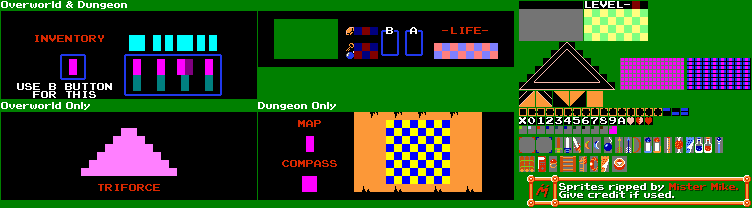
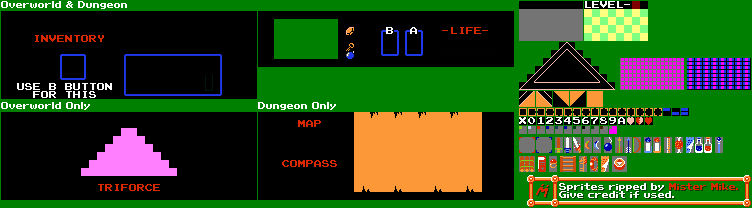
fireball explosion separatedd, hud colors

diff --git a/sprint0/sprint0/Bosses/Ganon/GanonFireball.cs b/sprint0/sprint0/Bosses/Ganon/GanonFireball.cs
@@ -12,84 +12,47 @@ namespace sprint0
         public Rectangle Location { get; set; }
         public Texture2D Texture { get; set; }
         private readonly int width = 8, height = 10;
-        private readonly Dictionary<string, List<Rectangle>> dirToSourcesMap;
-        private readonly Dictionary<string, SpriteEffects> dirToEffectsMap;
-        private readonly string type;
+        private readonly Dictionary<Direction, List<Rectangle>> dirToSourcesMap;
+        private readonly Dictionary<Direction, SpriteEffects> dirToEffectsMap;
         private int currFrame;
+        private readonly Direction dir;
         private readonly int totalFrames, repeatedFrames, speed = 3;
-        public Vector2 Direction { get; set; }
         private bool hit;
 
         public int Damage { get => 4; }
 
-        public GanonFireball(Texture2D texture, Vector2 location, string type, IEntity shooter)
+        public GanonFireball(Texture2D texture, Vector2 location, Direction dir, IEntity shooter)
         {
             Shooter = shooter;
             Texture = texture;
+            this.dir = dir;
             Location = new Rectangle((int)location.X, (int)location.Y, (int)(width * Game1.Scale), (int)(height * Game1.Scale));
-            this.type = type;
             currFrame = 0;
             totalFrames = 4;
             repeatedFrames = 2;
-            dirToSourcesMap = new Dictionary<string, List<Rectangle>>
+            dirToSourcesMap = new Dictionary<Direction, List<Rectangle>>
             {
-                { "up", SpritesheetHelper.GetFramesH(276, 157, width, height, totalFrames) },
-                { "up left", SpritesheetHelper.GetFramesH(276, 174, width, height, totalFrames) },
-                { "left", SpritesheetHelper.GetFramesH(276, 192, width, height, totalFrames) },
-                { "down left", SpritesheetHelper.GetFramesH(276, 174, width, height, totalFrames) },
-                { "down", SpritesheetHelper.GetFramesH(276, 157, width, height, totalFrames) },
-                { "down right", SpritesheetHelper.GetFramesH(276, 174, width, height, totalFrames)},
-                { "right",  SpritesheetHelper.GetFramesH(276, 192, width, height, totalFrames) },
-                { "up right", SpritesheetHelper.GetFramesH(276, 174, width, height, totalFrames) }
+                { Direction.n, SpritesheetHelper.GetFramesH(276, 157, width, height, totalFrames) },
+                { Direction.nw, SpritesheetHelper.GetFramesH(276, 174, width, height, totalFrames) },
+                { Direction.w, SpritesheetHelper.GetFramesH(276, 192, width, height, totalFrames) },
+                { Direction.sw, SpritesheetHelper.GetFramesH(276, 174, width, height, totalFrames) },
+                { Direction.s, SpritesheetHelper.GetFramesH(276, 157, width, height, totalFrames) },
+                { Direction.se, SpritesheetHelper.GetFramesH(276, 174, width, height, totalFrames)},
+                { Direction.e,  SpritesheetHelper.GetFramesH(276, 192, width, height, totalFrames) },
+                { Direction.ne, SpritesheetHelper.GetFramesH(276, 174, width, height, totalFrames) }
             };
-            dirToEffectsMap = new Dictionary<string, SpriteEffects>
+            dirToEffectsMap = new Dictionary<Direction, SpriteEffects>
             {
-                { "up", SpriteEffects.None },
-                { "up left", SpriteEffects.None },
-                { "left", SpriteEffects.None },
-                { "down left", SpriteEffects.FlipVertically },
-                { "down", SpriteEffects.FlipVertically },
-                { "down right", SpriteEffects.FlipVertically | SpriteEffects.FlipHorizontally },
-                { "right",  SpriteEffects.FlipHorizontally },
-                { "up right", SpriteEffects.FlipHorizontally }
+                { Direction.n, SpriteEffects.None },
+                { Direction.nw, SpriteEffects.None },
+                { Direction.w, SpriteEffects.None },
+                { Direction.sw, SpriteEffects.FlipVertically },
+                { Direction.s, SpriteEffects.FlipVertically },
+                { Direction.se, SpriteEffects.FlipVertically | SpriteEffects.FlipHorizontally },
+                { Direction.e,  SpriteEffects.FlipHorizontally },
+                { Direction.ne, SpriteEffects.FlipHorizontally }
             };
-            hit = true;
-            GetDirection();
-        }
-
-        public void GetDirection()
-        {
-            switch (type)
-            {
-                case "up":
-                    Direction = new Vector2(0, -1);
-                    break;
-                case "up left":
-                    Direction = new Vector2(-1, -1);
-                    break;
-                case "left":
-                    Direction = new Vector2(-1, 0);
-                    break;
-                case "down left":
-                    Direction = new Vector2(-1, 1);
-                    break;
-                case "down":
-                    Direction = new Vector2(0, 1);
-                    break;
-                case "down right":
-                    Direction = new Vector2(1, 1);
-                    break;
-                case "right":
-                    Direction = new Vector2(1, 0);
-                    break;
-                case "up right":
-                    Direction = new Vector2(1, -1);
-                    break;
-                default:
-                    break;
-            }
-            if (!type.Equals("none"))
-                Direction.Normalize();
+            hit = false;
         }
 
         public bool IsAlive() => !hit;
@@ -97,7 +60,7 @@ namespace sprint0
         public void Draw(SpriteBatch spriteBatch)
         {
             if (IsAlive())
-                spriteBatch.Draw(Texture, Location, dirToSourcesMap[type][currFrame / repeatedFrames], Color.White, 0, new Vector2(0, 0), dirToEffectsMap[type], 0);
+                spriteBatch.Draw(Texture, Location, dirToSourcesMap[dir][currFrame / repeatedFrames], Color.White, 0, new Vector2(0, 0), dirToEffectsMap[dir], 0);
         }
 
         public void Update()
@@ -106,14 +69,9 @@ namespace sprint0
             {
                 currFrame = (currFrame + 1) % (totalFrames * repeatedFrames);
                 Rectangle loc = Location;
-                loc.Offset(speed * Direction);
+                loc.Offset(speed * dir.ToVector2());
                 Location = loc;
             }
-        }
-
-        public void Unhit()
-        {
-            hit = false;
         }
 
         public void RegisterHit()

diff --git a/sprint0/sprint0/Bosses/Ganon/Ganon.cs b/sprint0/sprint0/Bosses/Ganon/Ganon.cs
@@ -5,7 +5,7 @@ using Microsoft.Xna.Framework.Graphics;
 
 // Author: Angela Li
 /*
- * Last updated: 3/14/21 by li.10011
+ * Last updated: 3/27/21 by li.10011
  */
 namespace sprint0
 {
@@ -20,12 +20,11 @@ namespace sprint0
         private readonly int totalFrames, invisibleTime = 200, visibleTime = 100, teleportTime = 50;
         private bool isVisible, isDead;
         private readonly Random rand;
-        private readonly List<GanonFireball> fireballExplosion;
         private readonly int fireballRate = 100;
         private int fireballCounter = 0;
         private int health;
         public int Damage { get => 8; }
-        private ItemSpawner itemSpawner;
+        private readonly ItemSpawner itemSpawner;
 
         public Ganon(Texture2D texture, Vector2 location, Game1 game)
         {
@@ -38,35 +37,17 @@ namespace sprint0
             totalFrames = 6;
             sources = SpritesheetHelper.GetFramesH(xOffset, yOffset, width, height, totalFrames);
             rand = new Random();
-
             isVisible = true;
             isDead = false;
             counter = 0;
             deathCounter = 0;
-
-            fireballExplosion = new List<GanonFireball>()
-            {
-                new GanonFireball(texture,location, "up", this),
-                new GanonFireball(texture,location, "up left", this),
-                new GanonFireball(texture,location, "left", this),
-                new GanonFireball(texture,location, "down left", this),
-                new GanonFireball(texture,location, "down", this),
-                new GanonFireball(texture,location, "down right", this),
-                new GanonFireball(texture,location, "right", this),
-                new GanonFireball(texture, location,"up right", this)
-            };
             itemSpawner = new ItemSpawner(game.Room.LoadLevel.RoomItems);
-
         }
 
         public void Draw(SpriteBatch spriteBatch)
         {
             if (isVisible && !isDead)
                 spriteBatch.Draw(Texture, Location, sources[currFrame], Color.White);
-            foreach (GanonFireball fireball in fireballExplosion)
-            {
-                fireball.Draw(spriteBatch);
-            }
         }
 
         public void Update()
@@ -75,7 +56,7 @@ namespace sprint0
             if (isDead)
             {
 
-                if (deathCounter == 0) FireballExplosion();
+                if (deathCounter == 0) new GanonFireballExplosion(Texture, this, game);
                 deathCounter++;
                 if (deathCounter == 70) Perish();
 
@@ -110,13 +91,6 @@ namespace sprint0
             {
                 ShootFireball();
             }
-            else
-            {
-                foreach (GanonFireball fireball in fireballExplosion)
-                {
-                    fireball.Update();
-                }
-            }
         }
 
         public void ChangeDirection()
@@ -125,15 +99,7 @@ namespace sprint0
 
         private void CheckHealth()
         {
-            if (health < 0)
-            {
-                isDead = true;
-                foreach (GanonFireball fireball in fireballExplosion)
-                {
-                    fireball.RegisterHit();
-                }
-
-            }
+            if (health < 0) isDead = true;
             if (health < 20) currFrame = 5;
         }
         public void TakeDamage(int damage)
@@ -145,7 +111,7 @@ namespace sprint0
 
         public void Perish()
         {
-            itemSpawner.SpawnItem(this.GetType().Name, this.Location.Location.ToVector2());
+            itemSpawner.SpawnItem(GetType().Name, Location.Location.ToVector2());
             game.Room.LoadLevel.RoomEnemies.RemoveEnemy(this);
             game.Room.RoomSound.AddSoundEffect("enemy death");
         }
@@ -163,17 +129,6 @@ namespace sprint0
             Vector2 dir = game.Room.Player.Pos - Location.Center.ToVector2();
             dir.Normalize();
             game.Room.LoadLevel.RoomProjectile.AddFireball(Location.Location.ToVector2(), dir, this);
-        }
-
-        private void FireballExplosion()
-        {
-            foreach (GanonFireball fireball in fireballExplosion)
-            {
-                Vector2 recLoc = Location.Center.ToVector2();
-                fireball.Location = new Rectangle((int)recLoc.X, (int)recLoc.Y, (int)(8 * Game1.Scale), (int)(10 * Game1.Scale));
-                fireball.Unhit();
-            }
-
         }
 
         public void Teleport()

diff --git a/sprint0/sprint0/RoomLoader/LoadLevel.cs b/sprint0/sprint0/RoomLoader/LoadLevel.cs
@@ -13,13 +13,14 @@ namespace sprint0
         public RoomNPCs RoomNPCs { get => roomNPCs; }
         public RoomEnemies RoomEnemies { get => roomEnemies; }
         public RoomSprite RoomSprite { get => roomSprite; }
-        private RoomProjectile roomProjectile;
-        private RoomWeapon roomWeapon;
-        private RoomBlocks roomBlocks;
-        private RoomItems roomItems;
-        private RoomNPCs roomNPCs;
-        private RoomEnemies roomEnemies;
-        private RoomSprite roomSprite;
+        private readonly RoomProjectile roomProjectile;
+        private readonly RoomWeapon roomWeapon;
+        private readonly RoomBlocks roomBlocks;
+        private readonly RoomItems roomItems;
+        private readonly RoomNPCs roomNPCs;
+        private readonly RoomEnemies roomEnemies;
+        private readonly RoomSprite roomSprite;
+
         public LoadLevel(Game1 game)
         {
             roomProjectile = new RoomProjectile(game);

diff --git a/sprint0/sprint0/RoomLoader/RoomProjectile.cs b/sprint0/sprint0/RoomLoader/RoomProjectile.cs
@@ -24,6 +24,9 @@ namespace sprint0
         public void AddFireball(Vector2 location, Vector2 dir, IEntity source)
             => projectiles.Add(projectileFactory.MakeFireball(location, dir, source));
 
+        public void RegisterProjectiles(IEnumerable<IProjectile> unregProjectiles)
+            => projectiles.AddRange(unregProjectiles);
+
         public void RemoveProjectile(IProjectile projectile) => projectilesToDie.Add(projectile);
 
         public void RemoveDead()
@@ -48,8 +51,6 @@ namespace sprint0
 
         public void Draw(SpriteBatch spriteBatch)
         {
-            foreach (IProjectile projectile in projectiles)
-                projectile.Draw(spriteBatch);
             foreach (IProjectile projectile in projectiles)
                 projectile.Draw(spriteBatch);
         }

diff --git a/sprint0/sprint0/Bosses/Ganon/GanonFireballExplosion.cs b/sprint0/sprint0/Bosses/Ganon/GanonFireballExplosion.cs
@@ -1,0 +1,18 @@
+using System;
+using System.Collections.Generic;
+using Microsoft.Xna.Framework;
+using Microsoft.Xna.Framework.Graphics;
+
+namespace sprint0
+{
+    public class GanonFireballExplosion
+    {
+        public GanonFireballExplosion(Texture2D texture, Ganon ganon, Game1 game)
+        {
+            List<IProjectile> fireballExplosion = new List<IProjectile>();
+            foreach (Direction dir in Enum.GetValues(typeof(Direction)))
+                fireballExplosion.Add(new GanonFireball(texture, ganon.Location.Center.ToVector2(), dir, ganon));
+            game.Room.LoadLevel.RoomProjectile.RegisterProjectiles(fireballExplosion);
+        }
+    }
+}

diff --git a/sprint0/sprint0/Bosses/Ganon/GanonDeathCloud.cs b/sprint0/sprint0/Bosses/Ganon/GanonDeathCloud.cs
@@ -6,10 +6,11 @@ namespace sprint0
 {
     public class GanonDeathCloud : ISprite
     {
-        public Rectangle Location { get => throw new NotImplementedException(); set => throw new NotImplementedException(); }
+        public Rectangle Location { get; set; }
 
-        public GanonDeathCloud()
+        public GanonDeathCloud(Texture2D texture, Vector2 location)
         {
+
         }
 
         public void Draw(SpriteBatch spriteBatch)

diff --git a/sprint0/sprint0/Bosses/Ganon/GanonAshes.cs b/sprint0/sprint0/Bosses/Ganon/GanonAshes.cs
@@ -6,10 +6,11 @@ namespace sprint0
 {
     public class GanonAshes : ISprite
     {
-        public Rectangle Location { get => throw new NotImplementedException(); set => throw new NotImplementedException(); }
+        public Rectangle Location { get; set; }
 
-        public GanonAshes()
+        public GanonAshes(Texture2D texture, Vector2 location)
         {
+
         }
 
         public void Draw(SpriteBatch spriteBatch)

diff --git a/sprint0/sprint0/Enemies/Keese.cs b/sprint0/sprint0/Enemies/Keese.cs
@@ -7,6 +7,9 @@ namespace sprint0
 {
     public class Keese : AbstractEnemy
     {
+        private readonly Dictionary<string, List<Rectangle>> colorMap;
+        private readonly string color;
+
         public Keese(Texture2D texture, Vector2 location, string keeseColor, Game1 game) : base(texture, location, game)
         {
             dirChangeDelay = 5;

diff --git a/sprint0/sprint0/Enemies/AbstractEnemy.cs b/sprint0/sprint0/Enemies/AbstractEnemy.cs
@@ -21,7 +21,7 @@ namespace sprint0
         protected readonly Random rand;
         protected readonly Game1 game;
         protected int damageTimer = 0;
-        private ItemSpawner itemSpawner;
+        private readonly ItemSpawner itemSpawner;
 
         public AbstractEnemy(Texture2D texture, Vector2 location, Game1 game)
         {
